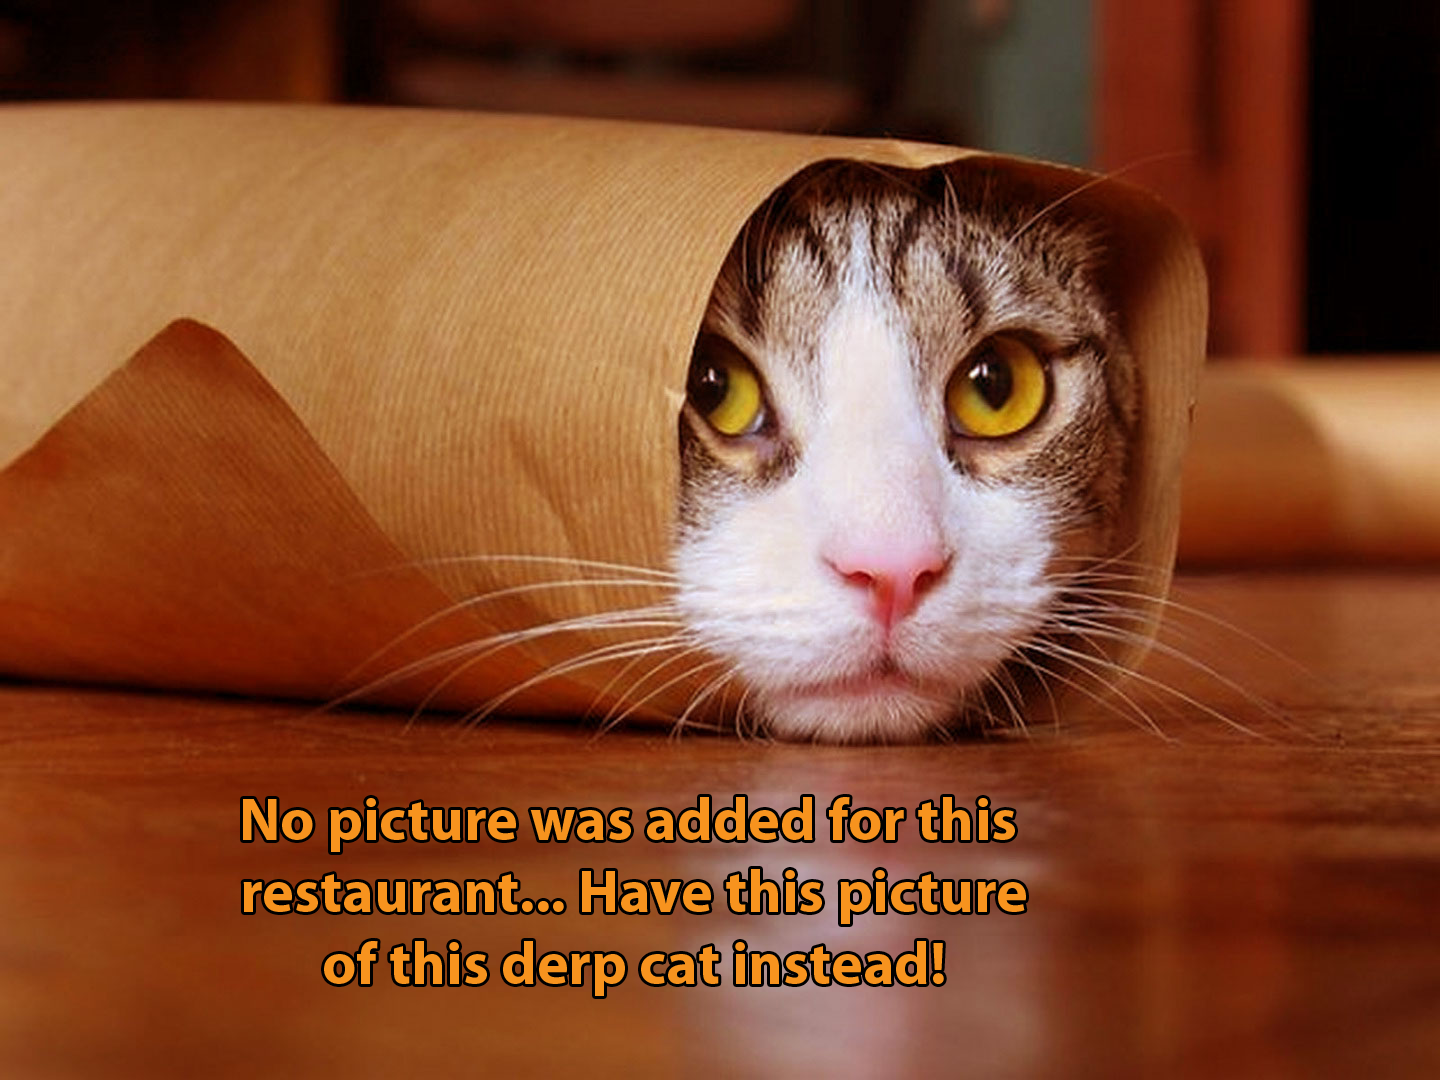
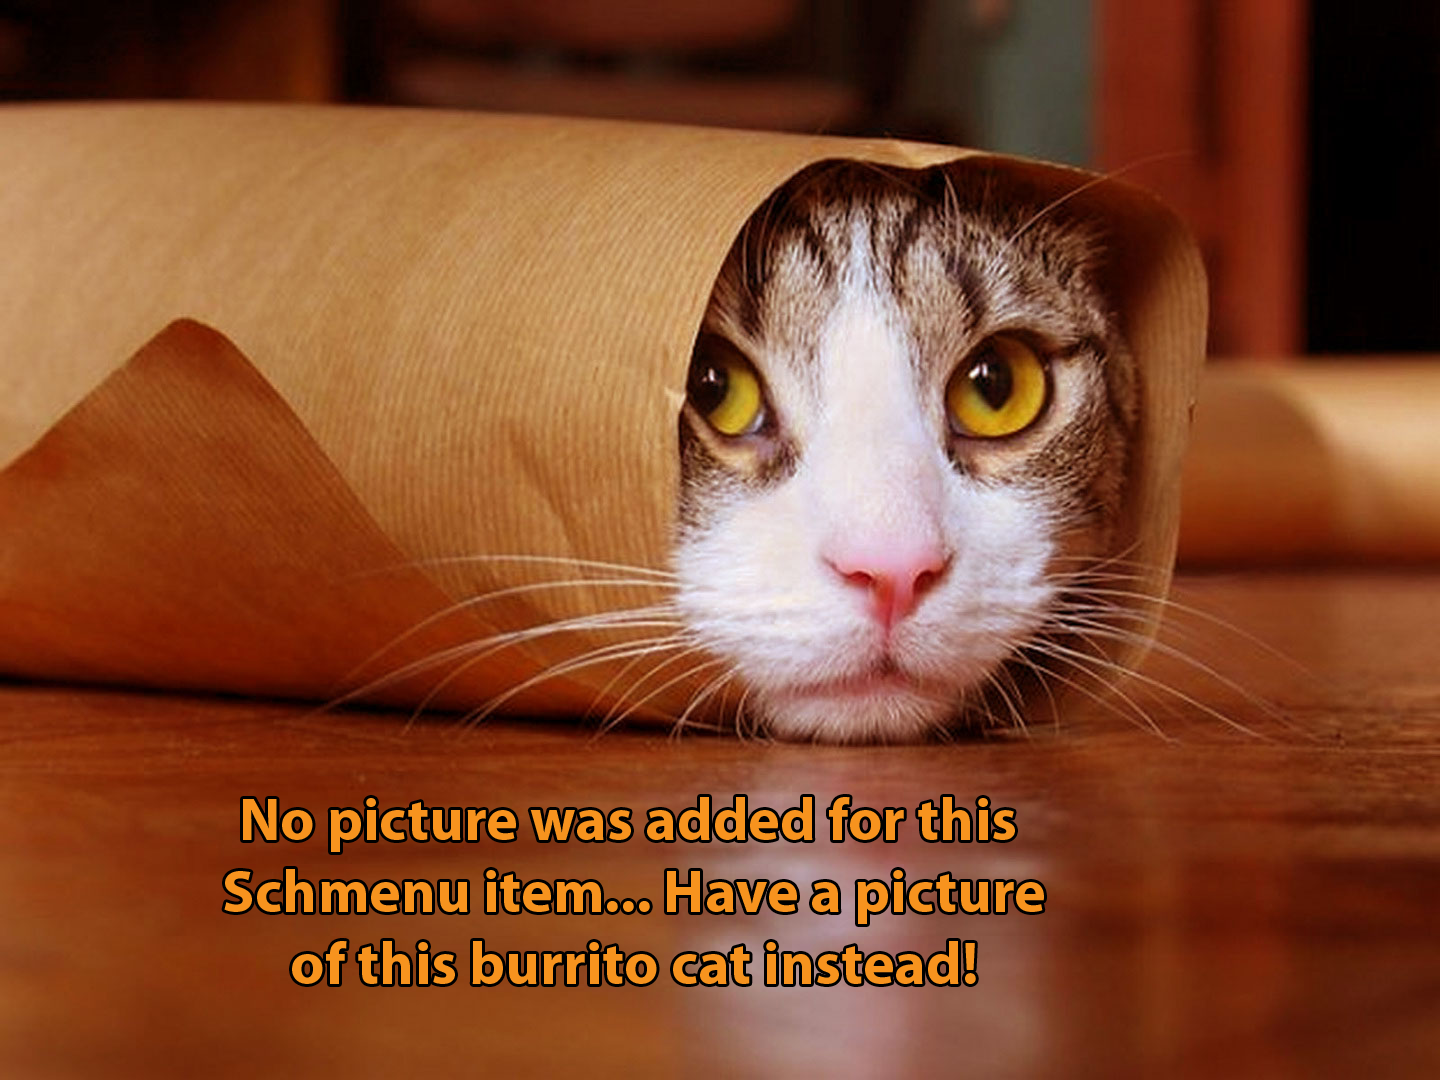
Updated default photos

Changed region(s): [[0.1562, 0.7944, 0.75, 0.9167]]

diff --git a/react-app/src/components/MenuItemsPage/MenuItem.js b/react-app/src/components/MenuItemsPage/MenuItem.js
@@ -66,7 +66,7 @@ function MenuItem() {
         )
     } else {
         contentPicture = (
-            <img src="/images/defaultRest.png"
+            <img src="/images/defaultFood.png"
                 alt="derp-cat!"
                 className="restaurant-picture" />
         )
